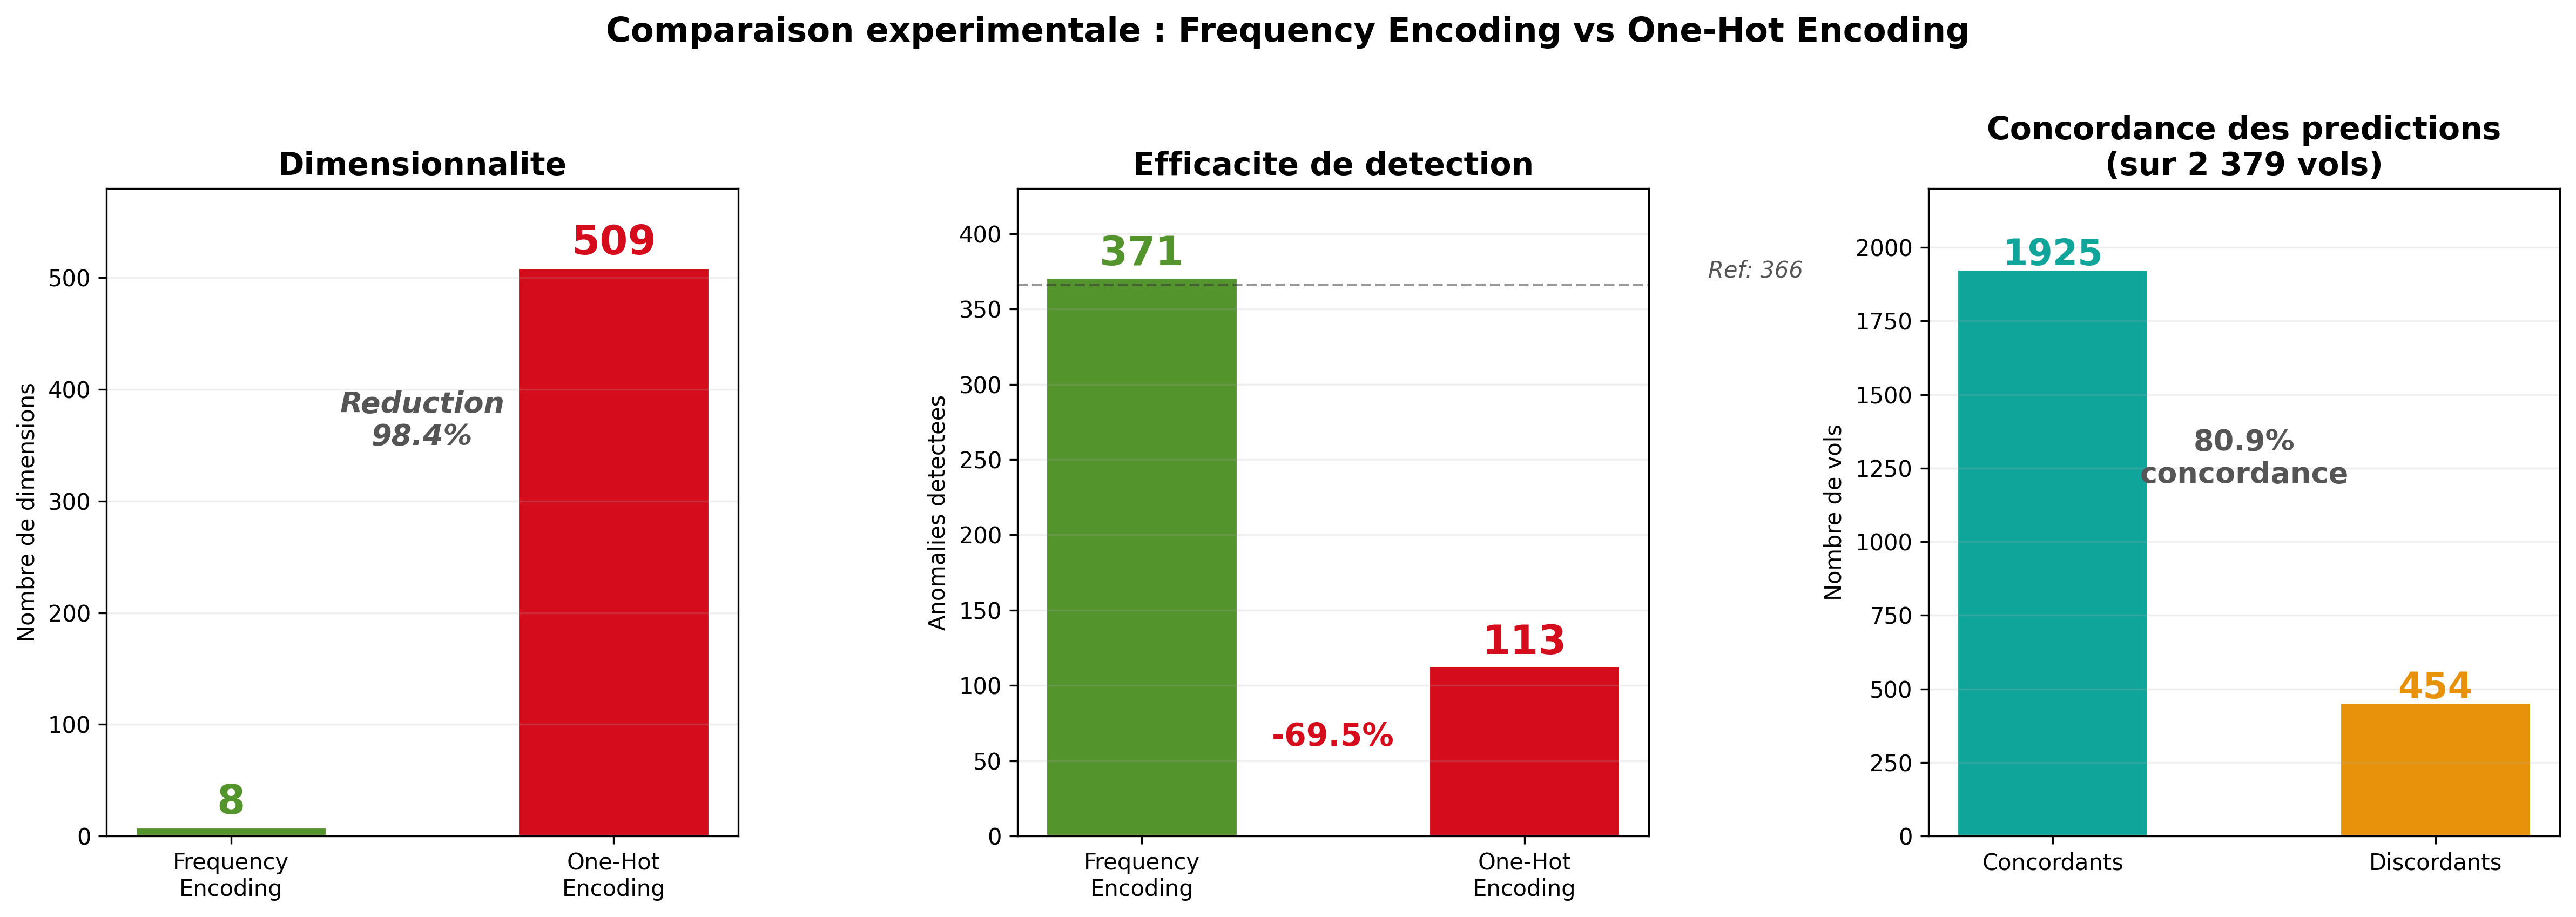
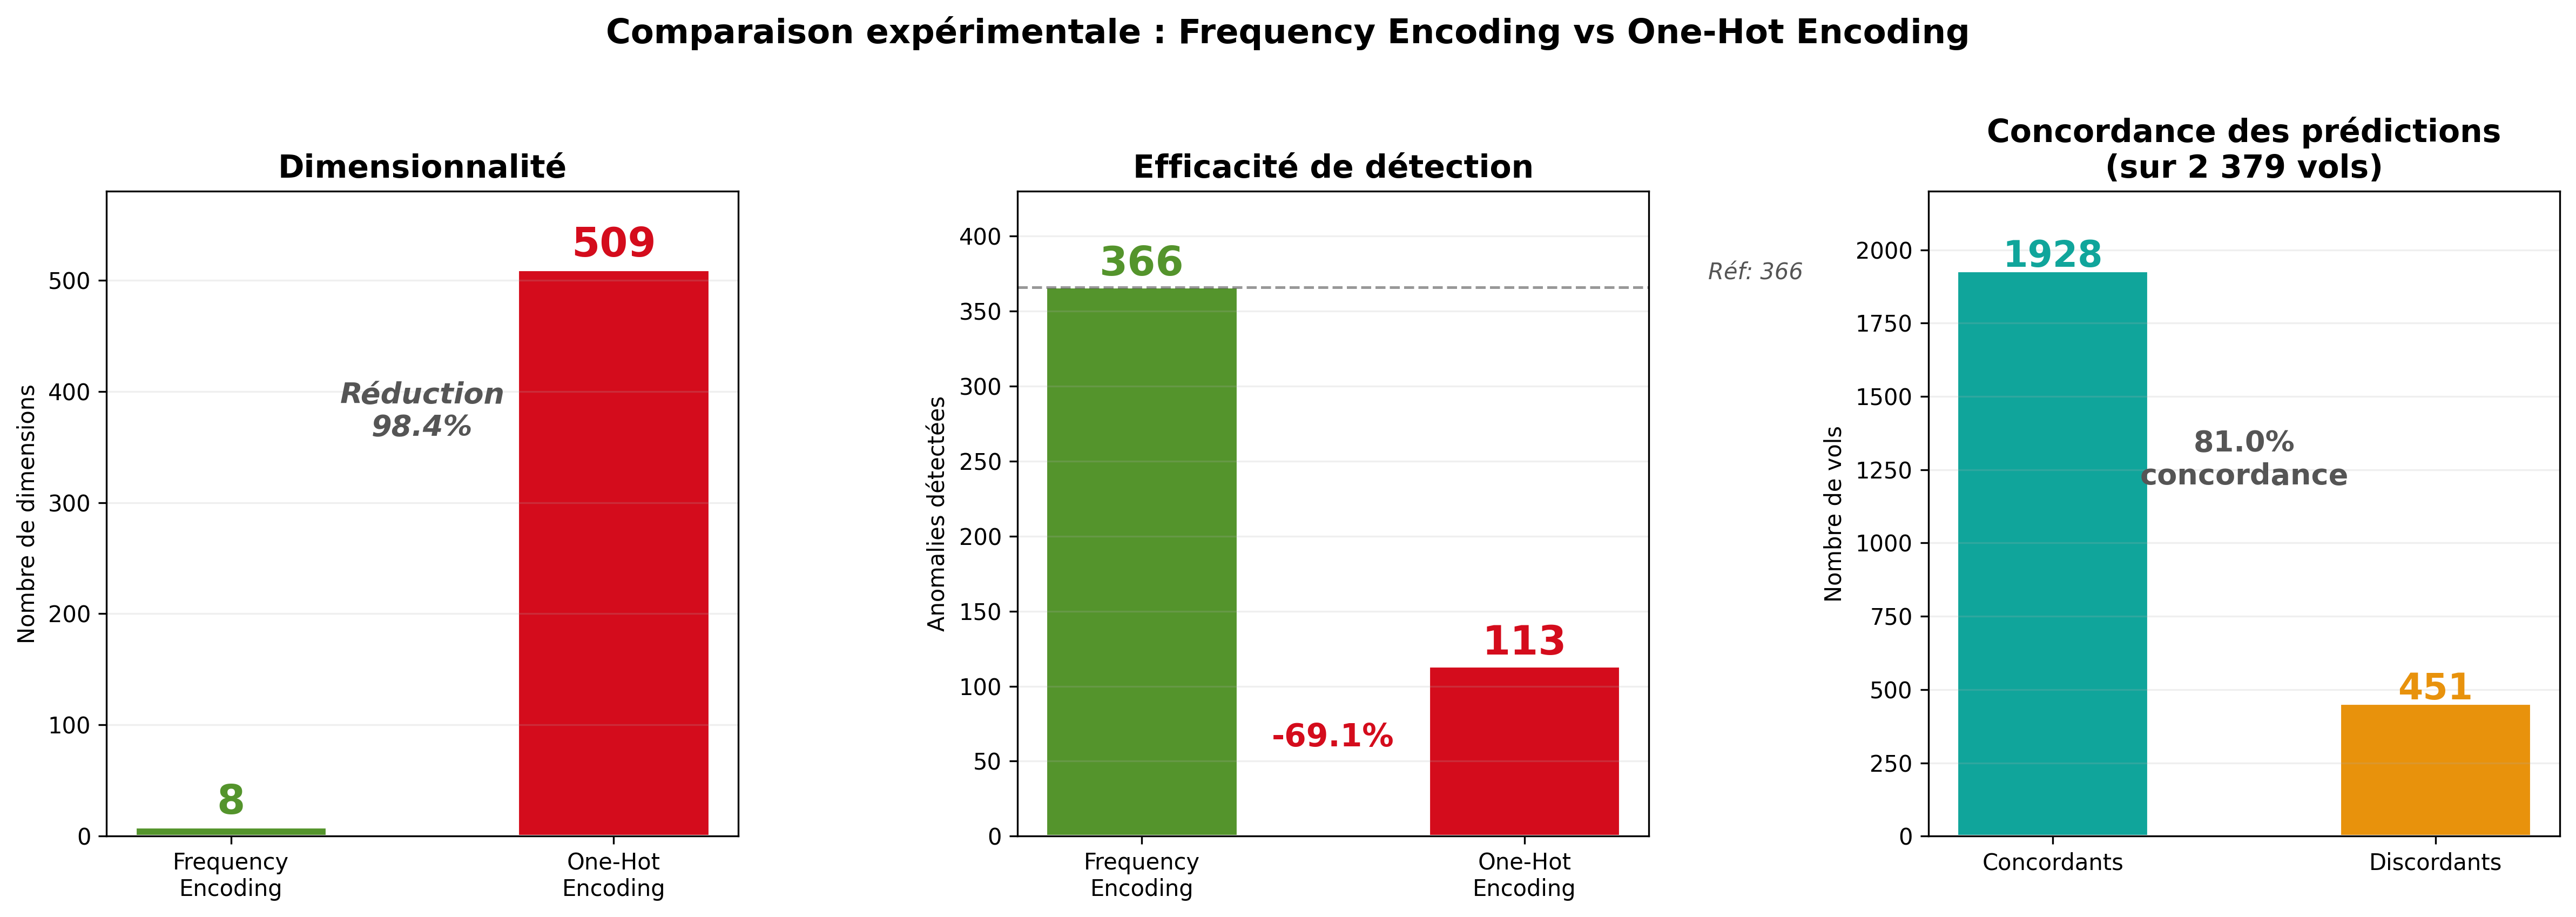
version final

diff --git a/test_if_vs_lof.py b/test_if_vs_lof.py
@@ -1,0 +1,180 @@
+"""
+test_if_vs_lof.py — Comparaison Isolation Forest vs Local Outlier Factor
+Fichier standalone, ne modifie rien (ni modeles, ni base).
+"""
+
+import sys
+import time
+import pickle
+import numpy as np
+import pandas as pd
+from sklearn.ensemble import IsolationForest
+from sklearn.neighbors import LocalOutlierFactor
+from sklearn.model_selection import train_test_split
+
+sys.stdout.reconfigure(encoding='utf-8')
+
+from config import TABLE_VOLS_VALIDES, IF_CONFIG, MODEL_PATH
+from db import read_table
+from features import FlightFeatureEncoder, normalize_vols_valides
+from predict import charger_vols_non_matches
+
+print("=" * 65)
+print("  COMPARAISON : Isolation Forest vs Local Outlier Factor")
+print("  (fichier standalone, aucune modification)")
+print("=" * 65)
+
+# -- Charger les donnees ----------------------------------------------------
+print("\nChargement des donnees...")
+raw_vv = read_table(TABLE_VOLS_VALIDES)
+if "EtapeValidation" in raw_vv.columns:
+    raw_vv = raw_vv[raw_vv["EtapeValidation"].astype(str) == "1"]
+df_vv = normalize_vols_valides(raw_vv)
+df_vv = df_vv.dropna(subset=["Date", "Matricule", "NumVol", "AeroDepart", "AeroArriv"])
+print(f"  Vols valides : {len(df_vv)}")
+
+df_nm = charger_vols_non_matches()
+df_nm_enc = df_nm.rename(columns={
+    "MatriculeAIMS": "Matricule", "NumVolAIMS": "NumVol",
+    "AeroDepartAIMS": "AeroDepart", "AeroArrivAIMS": "AeroArriv",
+    "DateAIMS": "Date",
+}).copy()
+df_nm_enc["Date"] = pd.to_datetime(df_nm_enc["Date"], errors="coerce")
+print(f"  Vols non-matches : {len(df_nm)}")
+
+# -- Meme split 80/20 ------------------------------------------------------
+X_train_df, _ = train_test_split(df_vv, test_size=0.2, random_state=42)
+print(f"  Split 80/20 : {len(X_train_df)} entrainement")
+
+# -- Encodage ---------------------------------------------------------------
+encoder = FlightFeatureEncoder()
+encoder.fit(X_train_df)
+X_train = encoder.transform(X_train_df)
+X_nm = encoder.transform(df_nm_enc)
+print(f"  Features : {X_train.shape[1]}")
+
+# -- Reference : modele sauvegarde -----------------------------------------
+print("\n" + "-" * 65)
+print("  REFERENCE : modele IF sauvegarde")
+print("-" * 65)
+with open(MODEL_PATH, "rb") as f:
+    iso_saved = pickle.load(f)
+encoder_saved = FlightFeatureEncoder.load()
+X_nm_saved = encoder_saved.transform(df_nm_enc)
+preds_saved = np.where(iso_saved.score_samples(X_nm_saved) >= iso_saved.offset_, 1, -1)
+n_ref = int((preds_saved == -1).sum())
+print(f"  Anomalies : {n_ref}")
+
+# =========================================================================
+#  1. ISOLATION FOREST
+# =========================================================================
+print("\n" + "-" * 65)
+print("  1) ISOLATION FOREST (contamination=5%)")
+print("-" * 65)
+
+t0 = time.perf_counter()
+iso = IsolationForest(**IF_CONFIG)
+iso.fit(X_train)
+t_train_if = time.perf_counter() - t0
+
+t0 = time.perf_counter()
+scores_if = iso.score_samples(X_nm)
+preds_if = np.where(scores_if >= iso.offset_, 1, -1)
+t_score_if = time.perf_counter() - t0
+
+n_if = int((preds_if == -1).sum())
+print(f"  Entrainement : {t_train_if:.3f} sec")
+print(f"  Scoring      : {t_score_if:.3f} sec")
+print(f"  Anomalies    : {n_if}")
+
+# =========================================================================
+#  2. LOCAL OUTLIER FACTOR (novelty=True pour scorer de nouvelles donnees)
+# =========================================================================
+contam_values = [0.05, 0.10]
+
+for contam in contam_values:
+    print("\n" + "-" * 65)
+    print(f"  2) LOCAL OUTLIER FACTOR (contamination={contam:.0%})")
+    print("-" * 65)
+
+    t0 = time.perf_counter()
+    lof = LocalOutlierFactor(
+        n_neighbors=20,
+        contamination=contam,
+        novelty=True,
+        n_jobs=-1,
+    )
+    lof.fit(X_train)
+    t_train_lof = time.perf_counter() - t0
+
+    t0 = time.perf_counter()
+    scores_lof = lof.score_samples(X_nm)
+    preds_lof = lof.predict(X_nm)
+    t_score_lof = time.perf_counter() - t0
+
+    n_lof = int((preds_lof == -1).sum())
+    print(f"  Entrainement : {t_train_lof:.3f} sec")
+    print(f"  Scoring      : {t_score_lof:.3f} sec")
+    print(f"  Anomalies    : {n_lof}")
+
+    # Concordance avec IF
+    agree = int((preds_if == preds_lof).sum())
+    print(f"  Concordance IF/LOF : {agree}/{len(preds_if)} ({100*agree/len(preds_if):.1f}%)")
+
+    # Combien d'anomalies en commun
+    both_anom = int(((preds_if == -1) & (preds_lof == -1)).sum())
+    only_if = int(((preds_if == -1) & (preds_lof == 1)).sum())
+    only_lof = int(((preds_if == 1) & (preds_lof == -1)).sum())
+    print(f"  Anomalies communes : {both_anom}")
+    print(f"  Uniquement IF      : {only_if}")
+    print(f"  Uniquement LOF     : {only_lof}")
+
+# =========================================================================
+#  3. LOF avec differents n_neighbors
+# =========================================================================
+print("\n" + "-" * 65)
+print("  3) SENSIBILITE LOF au parametre n_neighbors (contamination=5%)")
+print("-" * 65)
+print(f"  {'n_neighbors':<14s}  {'Anomalies':>10s}  {'Concordance IF':>15s}  {'Temps (sec)':>12s}")
+print(f"  {'-'*14}  {'-'*10}  {'-'*15}  {'-'*12}")
+
+for k in [5, 10, 20, 50, 100]:
+    t0 = time.perf_counter()
+    lof_k = LocalOutlierFactor(n_neighbors=k, contamination=0.05, novelty=True, n_jobs=-1)
+    lof_k.fit(X_train)
+    preds_k = lof_k.predict(X_nm)
+    t_k = time.perf_counter() - t0
+    n_k = int((preds_k == -1).sum())
+    agree_k = int((preds_if == preds_k).sum())
+    print(f"  {k:<14d}  {n_k:>10d}  {agree_k:>10d} ({100*agree_k/len(preds_if):.1f}%)  {t_k:>12.3f}")
+
+# =========================================================================
+#  TABLEAU RECAPITULATIF
+# =========================================================================
+print(f"\n{'=' * 65}")
+print("  TABLEAU RECAPITULATIF (contamination=5%, n_neighbors=20)")
+print(f"{'=' * 65}")
+
+# Re-run LOF 5% for final comparison
+lof_final = LocalOutlierFactor(n_neighbors=20, contamination=0.05, novelty=True, n_jobs=-1)
+t0 = time.perf_counter()
+lof_final.fit(X_train)
+t_lof_train = time.perf_counter() - t0
+t0 = time.perf_counter()
+preds_lof_final = lof_final.predict(X_nm)
+t_lof_score = time.perf_counter() - t0
+n_lof_final = int((preds_lof_final == -1).sum())
+agree_final = int((preds_if == preds_lof_final).sum())
+
+print(f"  {'Critere':<30s}  {'Isolation Forest':>18s}  {'LOF':>18s}")
+print(f"  {'-'*30}  {'-'*18}  {'-'*18}")
+print(f"  {'Approche':<30s}  {'Coupes aleatoires':>18s}  {'Densite locale':>18s}")
+print(f"  {'Complexite entrainement':<30s}  {'O(n)':>18s}  {'O(n x k)':>18s}")
+print(f"  {'Entrainement (sec)':<30s}  {t_train_if:>18.3f}  {t_lof_train:>18.3f}")
+print(f"  {'Scoring (sec)':<30s}  {t_score_if:>18.3f}  {t_lof_score:>18.3f}")
+print(f"  {'Anomalies detectees':<30s}  {n_if:>18d}  {n_lof_final:>18d}")
+print(f"  {'Ref (modele sauvegarde)':<30s}  {n_ref:>18d}  {'--':>18s}")
+print(f"  {'Sensibilite hyperparametre':<30s}  {'Faible':>18s}  {'Elevee (k)':>18s}")
+print(f"  {'Concordance':<30s}  {'':>18s}  {f'{100*agree_final/len(preds_if):.1f}%':>18s}")
+
+print(f"\n{'=' * 65}")

diff --git a/views/detection.py b/views/detection.py
@@ -262,36 +262,41 @@ def page_detection():
         unsafe_allow_html=True)
 
     # ── Verdict ──
-    if if_bad:
-        verdict = _verdict_card(
-            CRIMSON, "bi-shield-exclamation", "Anomalie détectée",
-            "Ce vol présente un comportement inhabituel par rapport à l'historique des données.",
-            _badge(_certitude(res["score"], res["if_offset"]), CRIMSON))
-    elif rf_bad:
-        verdict = _verdict_card(
-            CRIMSON, "bi-shield-exclamation", "Anomalie détectée",
-            "Écart repéré par l'analyse approfondie",
-            _badge(f"Probabilité d'écart · {res['rf_proba']:.0%}", CRIMSON))
+    if anomalie:
+        reason_parts = [p.strip() for p in str(res["raison"]).split("|")
+                        if p.strip() and p.strip().lower() != "aucune"]
+        reason_html = "<br>".join(reason_parts) if reason_parts else "Écart détecté par rapport à l'historique."
+        verdict = (
+            '<div style="max-width:580px;margin:0 auto;'
+            'border:2px solid #e53935;border-radius:16px;'
+            'padding:28px 32px;text-align:center;background:#fff;">'
+            '<i class="bi bi-shield-exclamation" '
+            'style="font-size:48px;color:#e53935;"></i>'
+            '<div style="font-size:22px;font-weight:800;'
+            'color:#e53935;margin-top:12px;">Anomalie détectée</div>'
+            '<div style="height:1px;background:#f5e6e6;margin:16px 0;"></div>'
+            f'<div style="font-size:14px;color:#666;">'
+            f'{reason_html}</div></div>')
     else:
-        verdict = _verdict_card(
-            GREEN, "bi-shield-check", "Vol normal",
-            "Ce vol correspond aux schémas habituels de l'historique",
-            _badge(_certitude(res["score"], res["if_offset"]), OLIVE_D))
+        verdict = (
+            '<div style="max-width:580px;margin:0 auto;'
+            'border:2px solid #2d8a4e;border-radius:16px;'
+            'padding:28px 32px;text-align:center;background:#fff;">'
+            '<i class="bi bi-shield-check" '
+            'style="font-size:48px;color:#2d8a4e;"></i>'
+            '<div style="font-size:22px;font-weight:800;'
+            'color:#2d8a4e;margin-top:12px;">Vol normal</div>'
+            '<div style="height:1px;background:#e6f5ea;margin:16px 0;"></div>'
+            '<div style="font-size:14px;color:#666;">'
+            'Aucun écart détecté .</div></div>')
 
-    # ── Layout & Alignement Parfait des Sorties ──
-    c1, c2 = st.columns([1.1, 0.9], gap="large", vertical_alignment="top")
-
-    with c1:
+    col1, col2, col3 = st.columns([1, 2, 1])
+    with col2:
         st.markdown(verdict, unsafe_allow_html=True)
         st.markdown(
-            f'<div style="font-size: 12px; color: {MUTED}; margin-top: 14px; padding-left: 4px; line-height:1.4;">'
+            f'<div style="font-size:12px;color:{MUTED};margin-top:14px;'
+            f'text-align:center;line-height:1.4;">'
             f'<i class="bi bi-info-circle" style="margin-right:6px;"></i>'
             f'L\'analyse vérifie la cohérence de saisie des données du vol, '
-            f'non le déroulement opérationnel du vol.'
-            f'</div>', 
-            unsafe_allow_html=True
-        )
-
-    with c2:
-        st.markdown(_diagnostic(res["raison"], "bad" if anomalie else "ok"),
-                    unsafe_allow_html=True)
+            f'non le déroulement opérationnel du vol.</div>',
+            unsafe_allow_html=True)

diff --git a/test_ohe_vs_fe.py b/test_ohe_vs_fe.py
@@ -42,53 +42,39 @@ df_nm_enc = df_nm.rename(columns={
 df_nm_enc["Date"] = pd.to_datetime(df_nm_enc["Date"], errors="coerce")
 print(f"  Vols non-matches : {len(df_nm)}")
 
-# -- Meme split 80/20 pour les deux ----------------------------------------
+# -- Split 80/20 pour OHE uniquement ---------------------------------------
 X_train_df, _ = train_test_split(df_vv, test_size=0.2, random_state=42)
-print(f"  Split 80/20 : {len(X_train_df)} entrainement")
+print(f"  Split 80/20 (OHE) : {len(X_train_df)} entrainement")
 
-# -- Reference : modele sauvegarde (FE) ------------------------------------
+# =========================================================================
+#  1. FREQUENCY ENCODING — modele sauvegarde (encodeur 100%, IF production)
+# =========================================================================
 print("\n" + "-" * 65)
-print("  REFERENCE : modele sauvegarde (Frequency Encoding, 8 features)")
+print("  1) FREQUENCY ENCODING — modele sauvegarde (encodeur 100%)")
 print("-" * 65)
+
 with open(MODEL_PATH, "rb") as f:
     iso_saved = pickle.load(f)
 encoder_saved = FlightFeatureEncoder.load()
-X_nm_fe = encoder_saved.transform(df_nm_enc)
-scores_ref = iso_saved.score_samples(X_nm_fe)
-preds_ref = np.where(scores_ref >= iso_saved.offset_, 1, -1)
-n_ref = int((preds_ref == -1).sum())
-print(f"  Anomalies detectees : {n_ref}")
-
-# =========================================================================
-#  1. FREQUENCY ENCODING (re-entraine, meme split)
-# =========================================================================
-print("\n" + "-" * 65)
-print("  1) FREQUENCY ENCODING (8 features)")
-print("-" * 65)
 
 t0 = time.perf_counter()
-enc_fe = FlightFeatureEncoder()
-enc_fe.fit(X_train_df)
-X_train_fe = enc_fe.transform(X_train_df)
+X_nm_fe = encoder_saved.transform(df_nm_enc)
 t_enc_fe = time.perf_counter() - t0
 
 t0 = time.perf_counter()
-iso_fe = IsolationForest(**IF_CONFIG)
-iso_fe.fit(X_train_fe)
-t_train_fe = time.perf_counter() - t0
-
-t0 = time.perf_counter()
-X_nm_fe2 = enc_fe.transform(df_nm_enc)
-scores_fe = iso_fe.score_samples(X_nm_fe2)
-preds_fe = np.where(scores_fe >= iso_fe.offset_, 1, -1)
+scores_fe = iso_saved.score_samples(X_nm_fe)
+preds_fe = np.where(scores_fe >= iso_saved.offset_, 1, -1)
 t_score_fe = time.perf_counter() - t0
 
 n_fe = int((preds_fe == -1).sum())
-print(f"  Dimensions       : {X_train_fe.shape[1]} features")
+n_ref = n_fe
+X_train_fe_shape1 = X_nm_fe.shape[1]
+print(f"  Dimensions       : {X_train_fe_shape1} features")
 print(f"  Encodage         : {t_enc_fe:.3f} sec")
-print(f"  Entrainement IF  : {t_train_fe:.3f} sec")
+print(f"  Entrainement IF  : deja entraine (modele sauvegarde)")
 print(f"  Scoring          : {t_score_fe:.3f} sec")
 print(f"  Anomalies        : {n_fe}")
+t_train_fe = 0.0
 
 # =========================================================================
 #  2. ONE-HOT ENCODING
@@ -141,15 +127,15 @@ print("  TABLEAU RECAPITULATIF")
 print(f"{'=' * 65}")
 print(f"  {'Critere':<30s}  {'Freq. Encoding':>16s}  {'One-Hot':>16s}")
 print(f"  {'-'*30}  {'-'*16}  {'-'*16}")
-print(f"  {'Dimensions':<30s}  {X_train_fe.shape[1]:>16d}  {n_ohe_cols:>16d}")
+print(f"  {'Dimensions':<30s}  {X_train_fe_shape1:>16d}  {n_ohe_cols:>16d}")
 print(f"  {'Encodage (sec)':<30s}  {t_enc_fe:>16.3f}  {t_enc_ohe:>16.3f}")
-print(f"  {'Entrainement IF (sec)':<30s}  {t_train_fe:>16.3f}  {t_train_ohe:>16.3f}")
+print(f"  {'Entrainement IF (sec)':<30s}  {'(sauvegarde)':>16s}  {t_train_ohe:>16.3f}")
 print(f"  {'Scoring (sec)':<30s}  {t_score_fe:>16.3f}  {t_score_ohe:>16.3f}")
 print(f"  {'Anomalies detectees':<30s}  {n_fe:>16d}  {n_ohe:>16d}")
 print(f"  {'Ref (modele sauvegarde)':<30s}  {n_ref:>16d}  {'--':>16s}")
 print(f"  {'Valeurs inconnues gerees':<30s}  {'Oui (-1.0)':>16s}  {'Non (ignore)':>16s}")
-ratio = n_ohe_cols / X_train_fe.shape[1]
-print(f"\n  Reduction dimensionnelle : {n_ohe_cols} -> {X_train_fe.shape[1]} = {(1 - 1/ratio)*100:.1f}%")
+ratio = n_ohe_cols / X_train_fe_shape1
+print(f"\n  Reduction dimensionnelle : {n_ohe_cols} -> {X_train_fe_shape1} = {(1 - 1/ratio)*100:.1f}%")
 
 # -- Concordance des predictions -------------------------------------------
 agree = int((preds_fe == preds_ohe).sum())